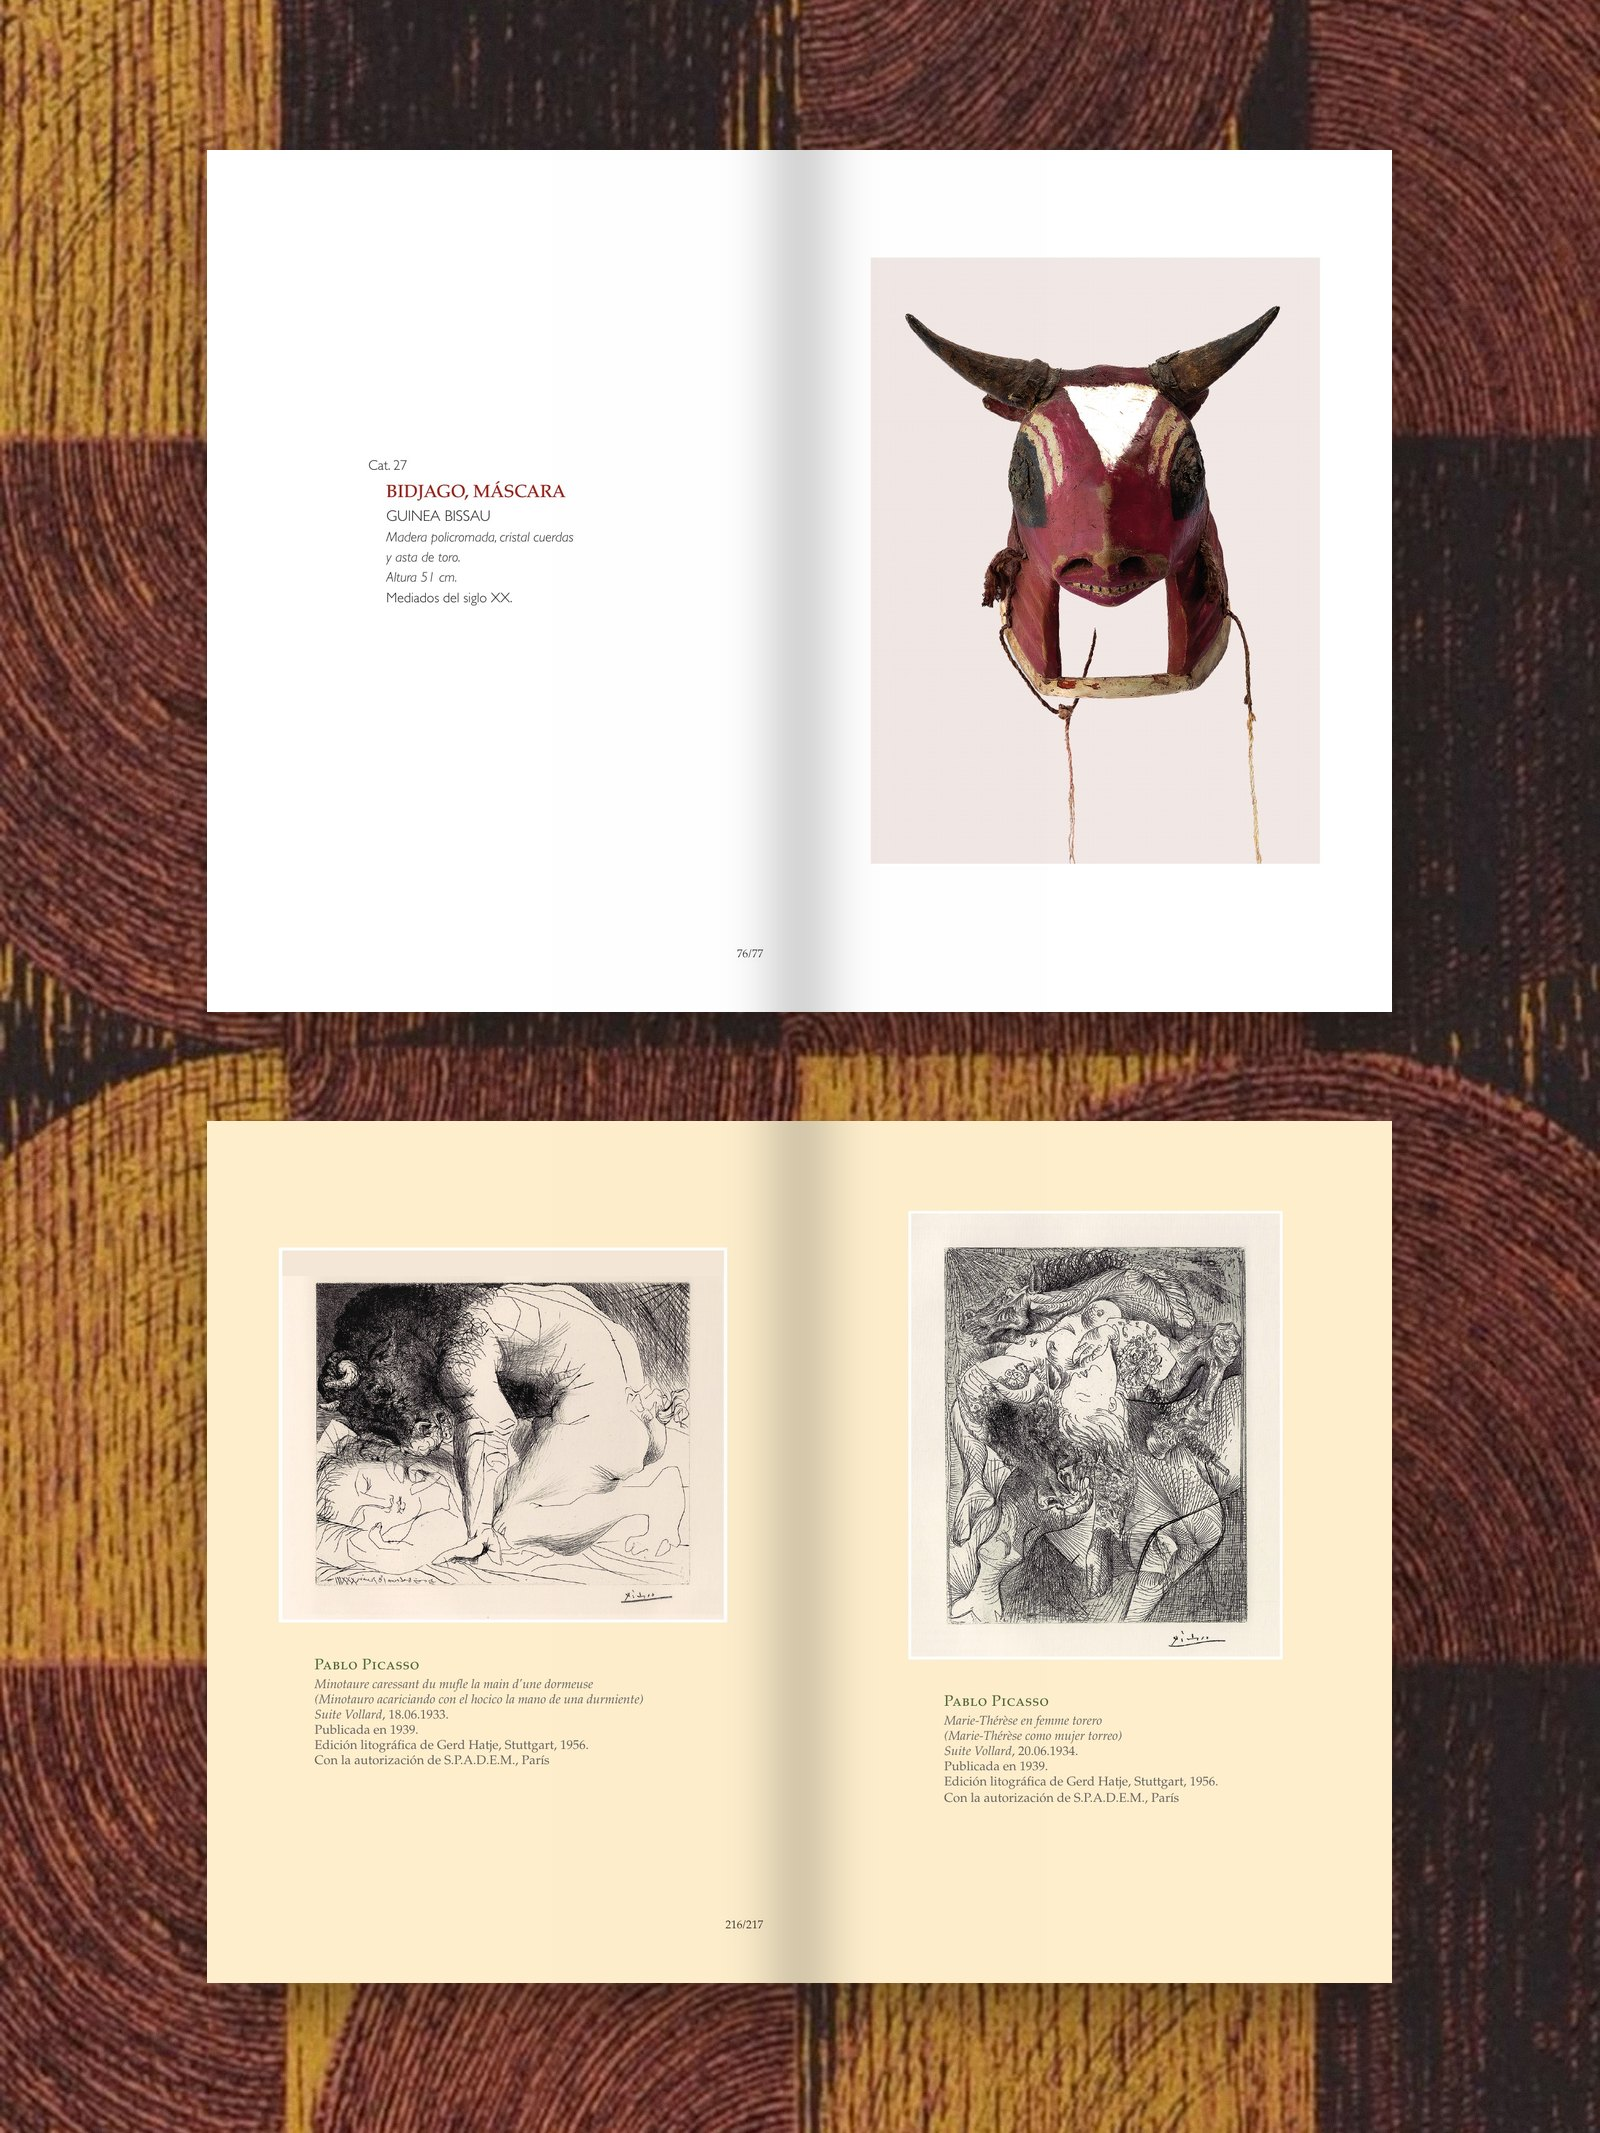
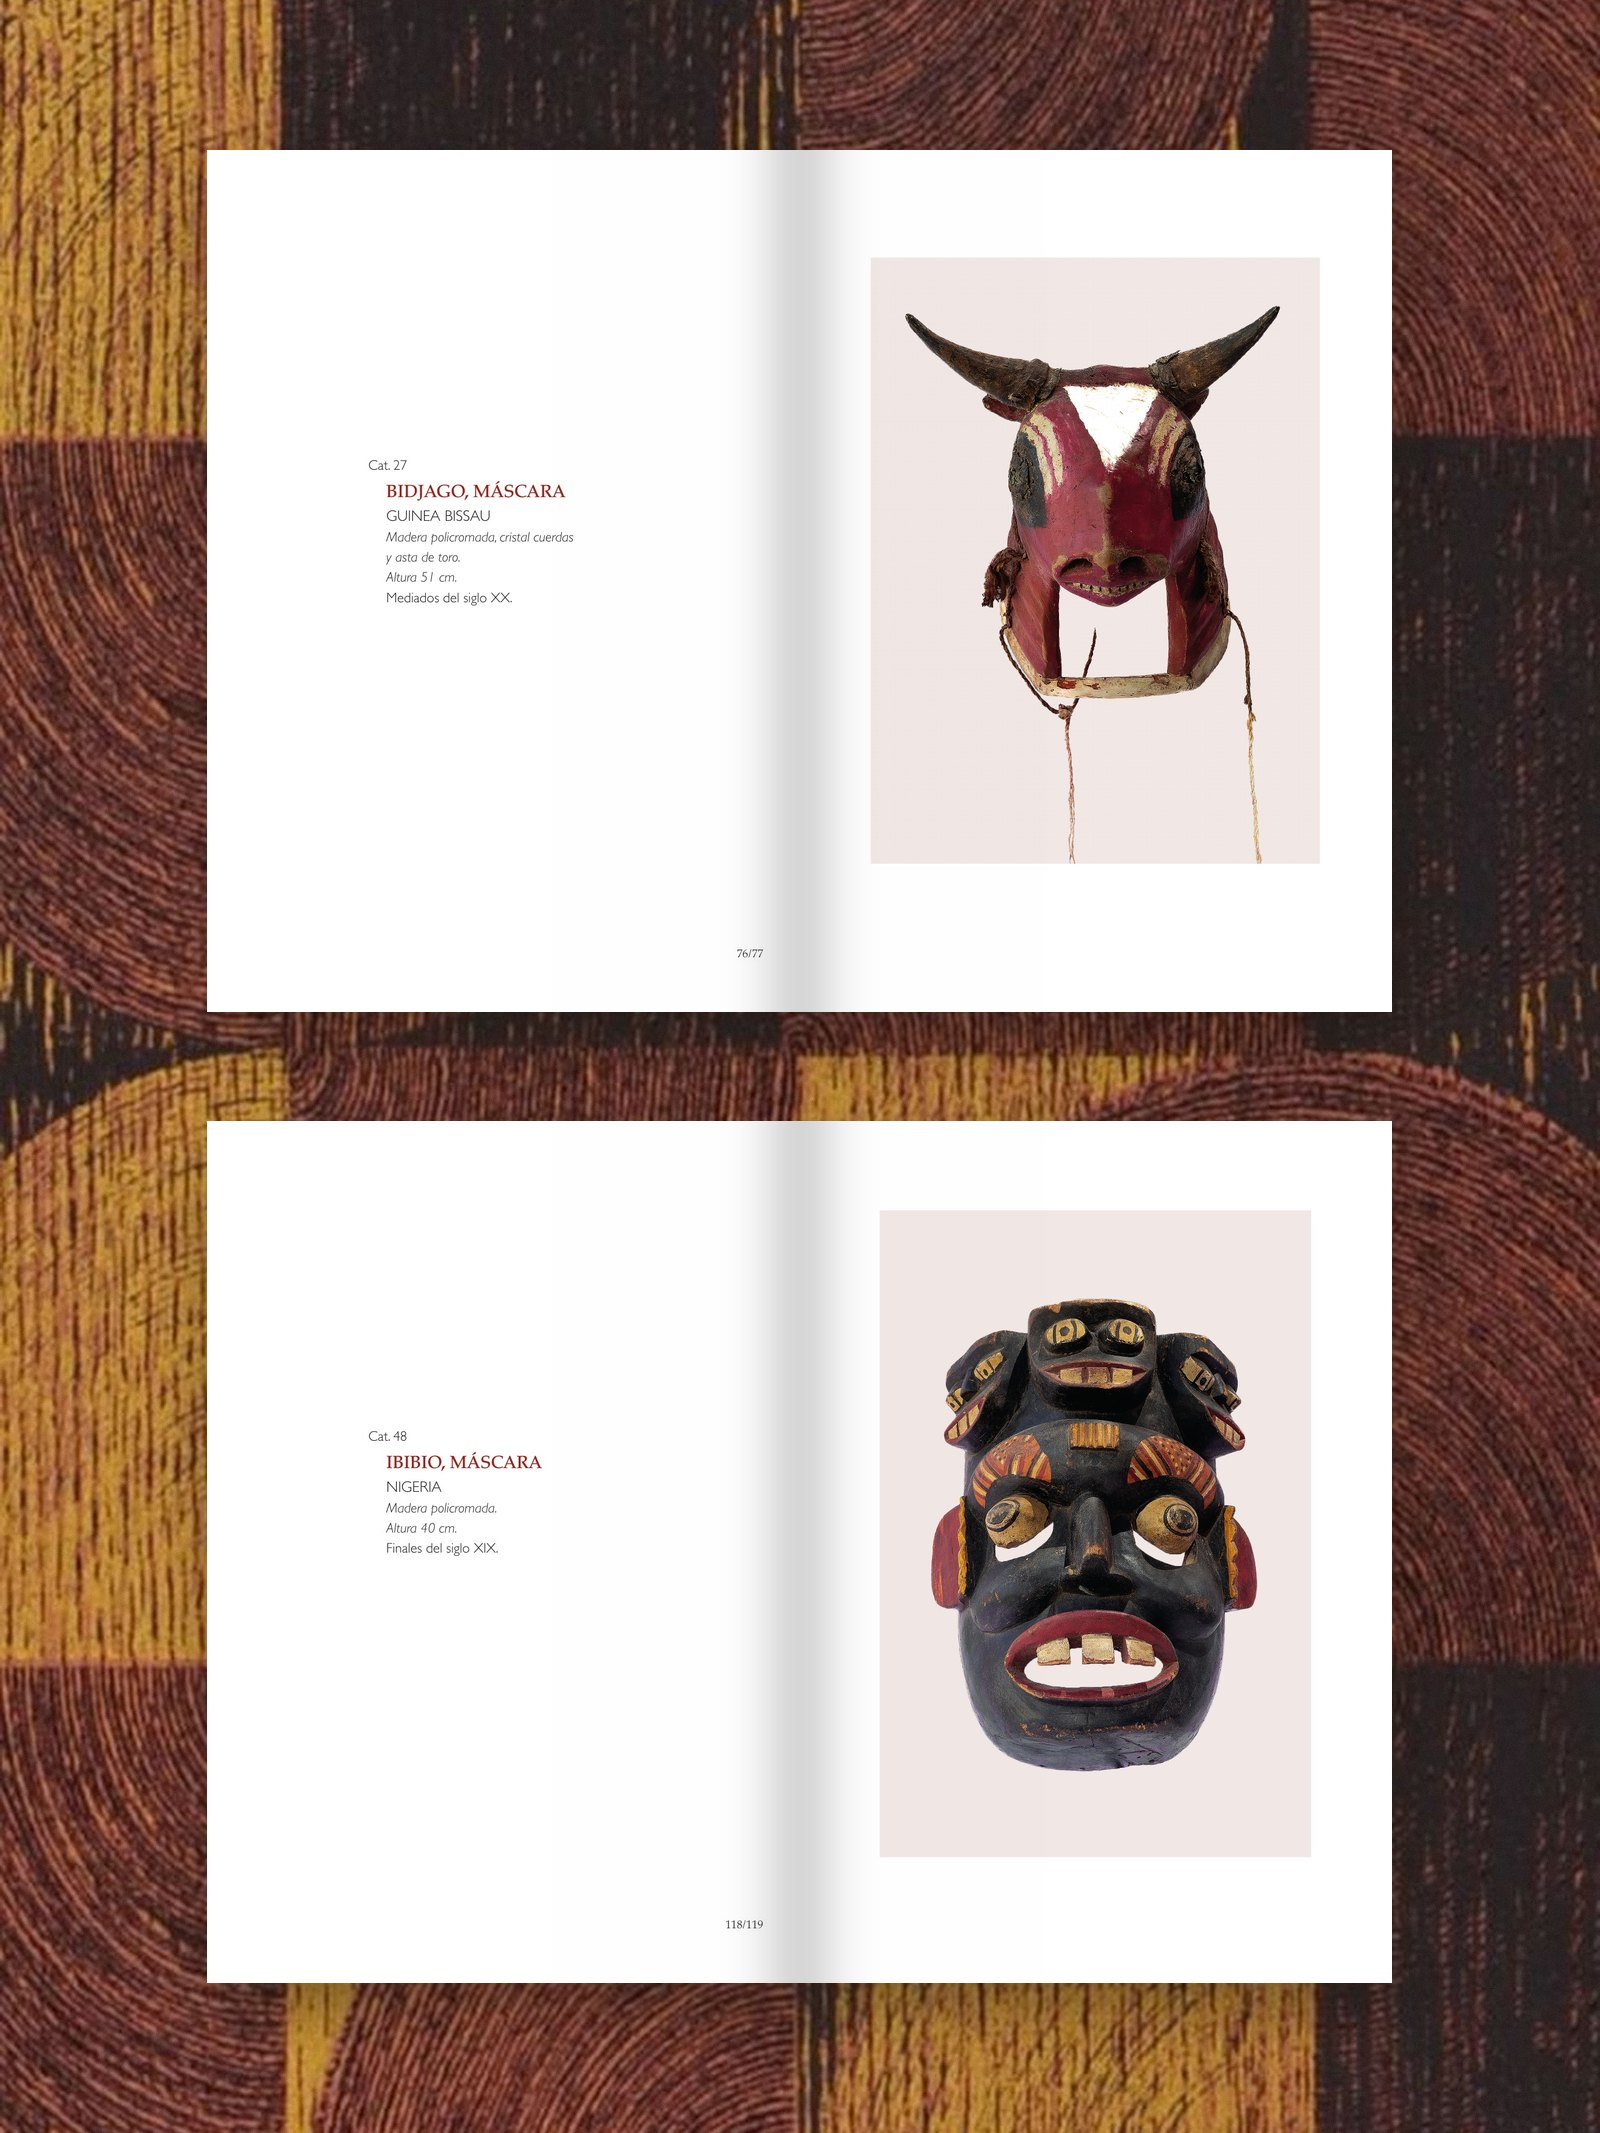
Primitivismo: páginas de fondo amarillo juntas y la suelta con otra; orden aleatorio nuevo en todos los libros
Claude-Session: https://claude.ai/code/session_014ZHEqD2MNxqjAg6cJYzQom

Changed region(s): [[0.125, 0.526, 0.875, 0.9283]]

diff --git a/web/sitio/contenido.js b/web/sitio/contenido.js
@@ -121,7 +121,7 @@ window.CONTENIDO = {
         portada: "fotos/proyectos/01-la-tortajada-portada.jpg",
         detalle: "fotos/proyectos/01-la-tortajada-detalle.jpg",
         completa: "fotos/proyectos/01-la-tortajada-completa.jpg",
-        escenas: ["fotos/proyectos/01-la-tortajada-interior-1.jpg","fotos/proyectos/01-la-tortajada-interior-6.jpg","fotos/proyectos/01-la-tortajada-interior-2.jpg","fotos/proyectos/01-la-tortajada-interior-5.jpg","fotos/proyectos/01-la-tortajada-interior-4.jpg","fotos/proyectos/01-la-tortajada-interior-3.jpg","fotos/proyectos/01-la-tortajada-video.mp4"],
+        escenas: ["fotos/proyectos/01-la-tortajada-interior-4.jpg","fotos/proyectos/01-la-tortajada-interior-6.jpg","fotos/proyectos/01-la-tortajada-interior-5.jpg","fotos/proyectos/01-la-tortajada-interior-3.jpg","fotos/proyectos/01-la-tortajada-interior-2.jpg","fotos/proyectos/01-la-tortajada-interior-1.jpg","fotos/proyectos/01-la-tortajada-video.mp4"],
       },
       {
         titulo: "Territorios de la mirada",
@@ -137,7 +137,7 @@ window.CONTENIDO = {
         portada: "fotos/proyectos/03-santa-fe-mauthausen-portada.jpg",
         detalle: "fotos/proyectos/03-santa-fe-mauthausen-detalle.jpg",
         completa: "fotos/proyectos/03-santa-fe-mauthausen-completa.jpg",
-        escenas: ["fotos/proyectos/03-santa-fe-mauthausen-interior-5.jpg","fotos/proyectos/03-santa-fe-mauthausen-interior-2.jpg","fotos/proyectos/03-santa-fe-mauthausen-interior-1.jpg","fotos/proyectos/03-santa-fe-mauthausen-interior-8.jpg","fotos/proyectos/03-santa-fe-mauthausen-interior-4.jpg","fotos/proyectos/03-santa-fe-mauthausen-interior-7.jpg","fotos/proyectos/03-santa-fe-mauthausen-interior-3.jpg","fotos/proyectos/03-santa-fe-mauthausen-interior-6.jpg","fotos/proyectos/03-santa-fe-mauthausen-video.mp4"],
+        escenas: ["fotos/proyectos/03-santa-fe-mauthausen-interior-1.jpg","fotos/proyectos/03-santa-fe-mauthausen-interior-3.jpg","fotos/proyectos/03-santa-fe-mauthausen-interior-8.jpg","fotos/proyectos/03-santa-fe-mauthausen-interior-7.jpg","fotos/proyectos/03-santa-fe-mauthausen-interior-4.jpg","fotos/proyectos/03-santa-fe-mauthausen-interior-5.jpg","fotos/proyectos/03-santa-fe-mauthausen-interior-2.jpg","fotos/proyectos/03-santa-fe-mauthausen-interior-6.jpg","fotos/proyectos/03-santa-fe-mauthausen-video.mp4"],
       },
       {
         titulo: "Primitivismo y modernidad",
@@ -145,7 +145,7 @@ window.CONTENIDO = {
         portada: "fotos/proyectos/04-primitivismo-y-modernidad-portada.jpg",
         detalle: "fotos/proyectos/04-primitivismo-y-modernidad-detalle.jpg",
         completa: "fotos/proyectos/04-primitivismo-y-modernidad-completa.jpg",
-        escenas: ["fotos/proyectos/04-primitivismo-y-modernidad-interior-2.jpg","fotos/proyectos/04-primitivismo-y-modernidad-interior-4.jpg","fotos/proyectos/04-primitivismo-y-modernidad-interior-7.jpg","fotos/proyectos/04-primitivismo-y-modernidad-interior-3.jpg","fotos/proyectos/04-primitivismo-y-modernidad-interior-6.jpg","fotos/proyectos/04-primitivismo-y-modernidad-interior-5.jpg","fotos/proyectos/04-primitivismo-y-modernidad-interior-8.jpg","fotos/proyectos/04-primitivismo-y-modernidad-interior-1.jpg","fotos/proyectos/04-primitivismo-y-modernidad-video.mp4"],
+        escenas: ["fotos/proyectos/04-primitivismo-y-modernidad-interior-6.jpg","fotos/proyectos/04-primitivismo-y-modernidad-interior-1.jpg","fotos/proyectos/04-primitivismo-y-modernidad-interior-5.jpg","fotos/proyectos/04-primitivismo-y-modernidad-interior-7.jpg","fotos/proyectos/04-primitivismo-y-modernidad-interior-8.jpg","fotos/proyectos/04-primitivismo-y-modernidad-interior-2.jpg","fotos/proyectos/04-primitivismo-y-modernidad-interior-3.jpg","fotos/proyectos/04-primitivismo-y-modernidad-interior-4.jpg","fotos/proyectos/04-primitivismo-y-modernidad-video.mp4"],
         encuadre: "50% 65%",
       },
       {
@@ -154,7 +154,7 @@ window.CONTENIDO = {
         portada: "fotos/proyectos/05-pedro-zamora-en-noir-portada.jpg",
         detalle: "fotos/proyectos/05-pedro-zamora-en-noir-detalle.jpg",
         completa: "fotos/proyectos/05-pedro-zamora-en-noir-completa.jpg",
-        escenas: ["fotos/proyectos/05-pedro-zamora-en-noir-interior-4.jpg","fotos/proyectos/05-pedro-zamora-en-noir-interior-8.jpg","fotos/proyectos/05-pedro-zamora-en-noir-interior-2.jpg","fotos/proyectos/05-pedro-zamora-en-noir-interior-5.jpg","fotos/proyectos/05-pedro-zamora-en-noir-interior-3.jpg","fotos/proyectos/05-pedro-zamora-en-noir-interior-7.jpg","fotos/proyectos/05-pedro-zamora-en-noir-interior-1.jpg","fotos/proyectos/05-pedro-zamora-en-noir-interior-6.jpg","fotos/proyectos/05-pedro-zamora-en-noir-video.mp4"],
+        escenas: ["fotos/proyectos/05-pedro-zamora-en-noir-interior-6.jpg","fotos/proyectos/05-pedro-zamora-en-noir-interior-8.jpg","fotos/proyectos/05-pedro-zamora-en-noir-interior-7.jpg","fotos/proyectos/05-pedro-zamora-en-noir-interior-4.jpg","fotos/proyectos/05-pedro-zamora-en-noir-interior-5.jpg","fotos/proyectos/05-pedro-zamora-en-noir-interior-1.jpg","fotos/proyectos/05-pedro-zamora-en-noir-interior-2.jpg","fotos/proyectos/05-pedro-zamora-en-noir-interior-3.jpg","fotos/proyectos/05-pedro-zamora-en-noir-video.mp4"],
       },
       {
         titulo: "Iglesia y Convento de Santa María de Coín",
@@ -162,7 +162,7 @@ window.CONTENIDO = {
         portada: "fotos/proyectos/06-santa-maria-de-coin-portada.jpg",
         detalle: "fotos/proyectos/06-santa-maria-de-coin-detalle.jpg",
         completa: "fotos/proyectos/06-santa-maria-de-coin-completa.jpg",
-        escenas: ["fotos/proyectos/06-santa-maria-de-coin-interior-7.jpg","fotos/proyectos/06-santa-maria-de-coin-interior-5.jpg","fotos/proyectos/06-santa-maria-de-coin-interior-3.jpg","fotos/proyectos/06-santa-maria-de-coin-interior-1.jpg","fotos/proyectos/06-santa-maria-de-coin-interior-2.jpg","fotos/proyectos/06-santa-maria-de-coin-interior-4.jpg","fotos/proyectos/06-santa-maria-de-coin-interior-9.jpg","fotos/proyectos/06-santa-maria-de-coin-interior-6.jpg","fotos/proyectos/06-santa-maria-de-coin-interior-8.jpg","fotos/proyectos/06-santa-maria-de-coin-video.mp4"],
+        escenas: ["fotos/proyectos/06-santa-maria-de-coin-interior-4.jpg","fotos/proyectos/06-santa-maria-de-coin-interior-6.jpg","fotos/proyectos/06-santa-maria-de-coin-interior-7.jpg","fotos/proyectos/06-santa-maria-de-coin-interior-9.jpg","fotos/proyectos/06-santa-maria-de-coin-interior-8.jpg","fotos/proyectos/06-santa-maria-de-coin-interior-1.jpg","fotos/proyectos/06-santa-maria-de-coin-interior-3.jpg","fotos/proyectos/06-santa-maria-de-coin-interior-2.jpg","fotos/proyectos/06-santa-maria-de-coin-interior-5.jpg","fotos/proyectos/06-santa-maria-de-coin-video.mp4"],
       },
       ],
     },

diff --git a/web/scripts/montaje.py b/web/scripts/montaje.py
@@ -37,9 +37,9 @@ CATALOGOS = {
         ("fe949059-04b5-43a7-861d-51cc584036bd", ["m2"]),
         ("aeb6fbea-72d8-4836-bc6b-67b3330e326e", ["m4", 60]),
         ("0a7aca49-6dab-465a-b971-1c54e98fc84f", [66]),
-        ("e98dba43-383a-495d-9982-79d7d557a24e", [76, 216]),
+        ("e98dba43-383a-495d-9982-79d7d557a24e", [76, 118]),
         ("8a83a32c-recorte", [142]),
-        ("1bd9fe0e-2f21-4f0a-8c56-3d9839cb18df", [118, 220]),
+        ("1bd9fe0e-2f21-4f0a-8c56-3d9839cb18df", [216, 220]),
         ("f7e275a1-573f-4df3-9afc-f279a6346b8f", [50, 70, 158]),
     ]),
     # las fotos 1 a 3 salen de otro montaje; aquí se añaden desde la 4 (None = amarillo liso, sin fondo todavía)
